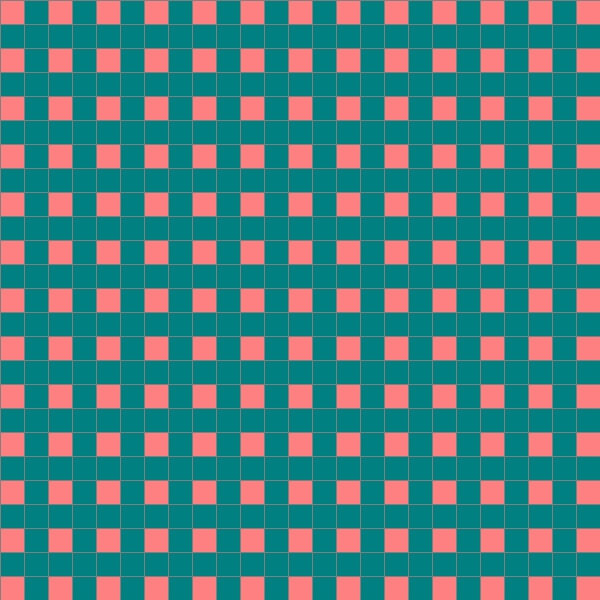
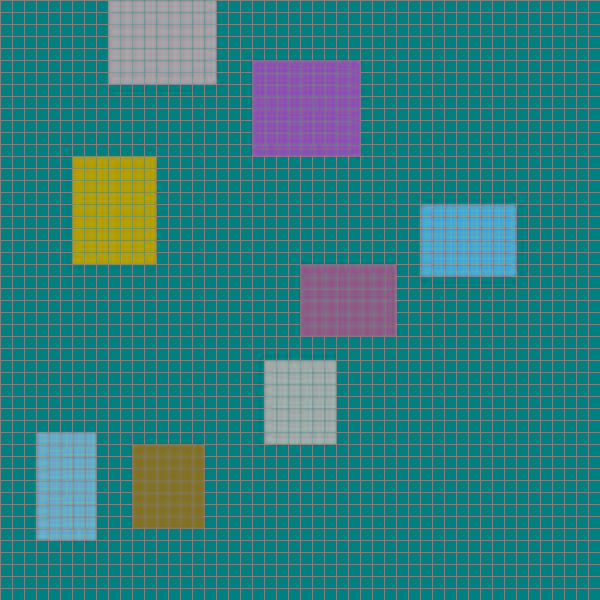
Implement RNG & Room Boundary
Variables to determine room creation attempts and size through RNG now implemented. RoomBlocks not contain a boundary variable that surrounds the actual room by one cell

diff --git a/GridMap.java b/GridMap.java
@@ -23,6 +23,9 @@ public class GridMap
 	private int gridWidth;
 	private int gridHeight;
 	private Random rand;
+	private int geneticAttempts;
+	private int geneticRoomMin;
+	private int geneticRoomMax;
 
 
 	public GridMap(int width, int height)
@@ -50,6 +53,10 @@ public class GridMap
 				
 			}
 		}
+
+		geneticAttempts = 400;
+		geneticRoomMax = 9;
+		geneticRoomMin = 5;
 	}
 
 	
@@ -67,12 +74,12 @@ public class GridMap
 
 	      ig2.setColor(Color.BLACK);
 	      ig2.fillRect(0, 0, width, height);
-	      ig2.setColor(Color.WHITE);
+	      
 	      
 	      
           
-	      designateRooms(ig2, rooms, 40, width, height);
-	      designateCorridors();
+	      designateRooms(ig2, rooms, width, height);
+	      //expandMaze();
 	      drawCells(ig2, width, height, gridWidth, gridHeight);
 
 	      drawGrid(ig2, width / gridWidth, height / gridHeight);
@@ -101,15 +108,15 @@ public class GridMap
 		}
 	}
 
-	private void designateRooms(Graphics2D pencil, Vector<RoomBlock> rooms, int attempts, int imgW, int imgH)
+	private void designateRooms(Graphics2D pencil, Vector<RoomBlock> rooms, int imgW, int imgH)
 	{
 		// Attempt to draw N rooms
 		// Rooms can not overlap
 		// When a room is drawn, the appropriate cells in allTiles are notified and switch types
 		// A RoomBlock is also created
 		pencil.setColor(Color.WHITE);
-		int roomSizeWidth = 3;
-		int roomSizeHeight = 4;
+		int roomSizeWidth;
+		int roomSizeHeight;
 
 		int startWidth; 
 		int startHeight;
@@ -117,8 +124,10 @@ public class GridMap
 		try
 		{
 			// Decide rooms based on tiles.
-			for(int i = 0; i < attempts; i++)
+			for(int i = 0; i < geneticAttempts; i++)
 			{
+				roomSizeWidth = rand.nextInt((geneticRoomMax - geneticRoomMin) + 1) + geneticRoomMin;
+				roomSizeHeight = rand.nextInt((geneticRoomMax - geneticRoomMin) + 1) + geneticRoomMin;
 
 				// pick start origin
 				startWidth = Math.floorMod(rand.nextInt(), gridWidth);
@@ -177,16 +186,7 @@ public class GridMap
 		
 		
 	}
-	private void designateCorridors()
-	{
 	
-		expandMaze();
-			
-
-		// Choose a direction randomly, set an adjectent cell to Globals.WALL
-
-		
-	}
 	private void expandMaze()
 	{
 		// recursive backtracking algorithm
@@ -205,10 +205,6 @@ public class GridMap
 		while(!unvisitedCells.isEmpty())
 		{
 			allTiles[current.getX()][current.getY()].changeCellType(Globals.HALLWAY);
-			if(unvisitedCells.size() == 1)
-			{
-				finish = unvisitedCells.get(0);
-			}
 			
 			// Select an unvisited cell(defined by WALL)
 			nextCell = getNextMove(current, lastDir);
@@ -265,7 +261,6 @@ public class GridMap
 		{
 			// Else, a random direction among the potential ones
 			nextDir = potentialDirections.get(Math.floorMod(rand.nextInt(), potentialDirections.size()));
-			System.out.println(nextDir);
 
 			// Set next cell to current cell + chosen direction
 			nextMove = allTiles[current.getX() + (nextDir.dx)][current.getY() + (nextDir.dy)];
@@ -333,9 +328,9 @@ public class GridMap
 			red = rand.nextFloat();
 			green = rand.nextFloat();
 			blue = rand.nextFloat();
-
-			pencil.fillRect(rooms.get(i).getLowX() * (imgW / gridWidth) + 1, rooms.get(i).getLowY() * (imgH / gridHeight) + 1, (rooms.get(i).getHighX() - rooms.get(i).getLowX()) * (imgW / gridWidth) - 1, (rooms.get(i).getHighY() - rooms.get(i).getLowY()) * (imgH / gridHeight) - 1);
 			pencil.setColor(new Color(red, green, blue));
+			pencil.fillRect(rooms.get(i).getLowX() * (imgW / gridWidth) + 1, rooms.get(i).getLowY() * (imgH / gridHeight) + 1, (rooms.get(i).getHighX() - rooms.get(i).getLowX()) * (imgW / gridWidth) - 1, (rooms.get(i).getHighY() - rooms.get(i).getLowY()) * (imgH / gridHeight) - 1);
+			
 		}
 		
 		// Draw Hallways
@@ -343,7 +338,7 @@ public class GridMap
 		{
 			for(int j = 0; j < gridH; j++)
 			{
-				if(allTiles[i][j].getCellType() == Globals.BLOCKED)
+				if(allTiles[i][j].getCellType() == Globals.HALLWAY)
 				{
 					pencil.setColor(Color.WHITE);
 					pencil.fillRect(i * (imgW / gridWidth), j * (imgH / gridHeight), (imgW / gridW), (imgH / gridH));
@@ -363,4 +358,3 @@ public class GridMap
 
 	
 }
-

diff --git a/RoomBlock.java b/RoomBlock.java
@@ -8,6 +8,7 @@ public class RoomBlock
 	int xUpper; // Right bound
 	int yLower; // Upper bound
 	int yUpper; // Lower bound
+	Rectangle surroundingBoundary;
 
 	public RoomBlock(int xLow, int xHigh, int yLow, int yHigh)
 	{
@@ -15,6 +16,7 @@ public class RoomBlock
 		xUpper = xHigh;
 		yLower = yLow;
 		yUpper = yHigh;
+		surroundingBoundary = new Rectangle(xLower - 1, yLower - 1, xUpper + 1, yUpper + 1);
 	}
 
 	// Returns true of 2 rectangles overlap
@@ -24,10 +26,10 @@ public class RoomBlock
 		
 		boolean overlap = true;
 
-		Rectangle room = new Rectangle(xLower - 1, yLower - 1, roomWidth + 1, roomHeight + 1);
-		Rectangle checkRect = new Rectangle(checkX - 1, checkY - 1, roomWidth + 1, roomHeight + 1);
+		
+		Rectangle checkRect = new Rectangle(checkX, checkY, roomWidth, roomHeight);
 
-		return room.intersects(checkRect);
+		return surroundingBoundary.intersects(checkRect);
 	}
 	public boolean checkIfCollision(int posX, int posY)
 	{
